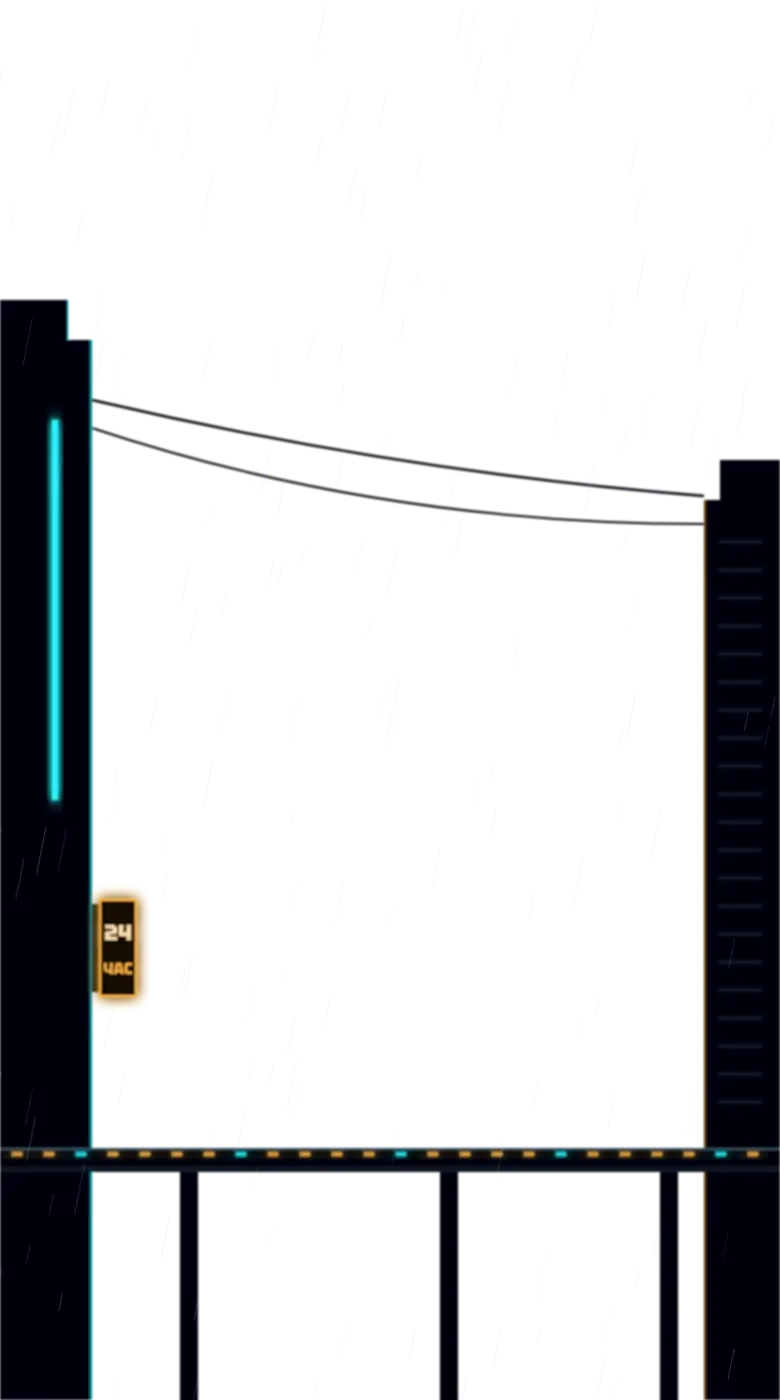
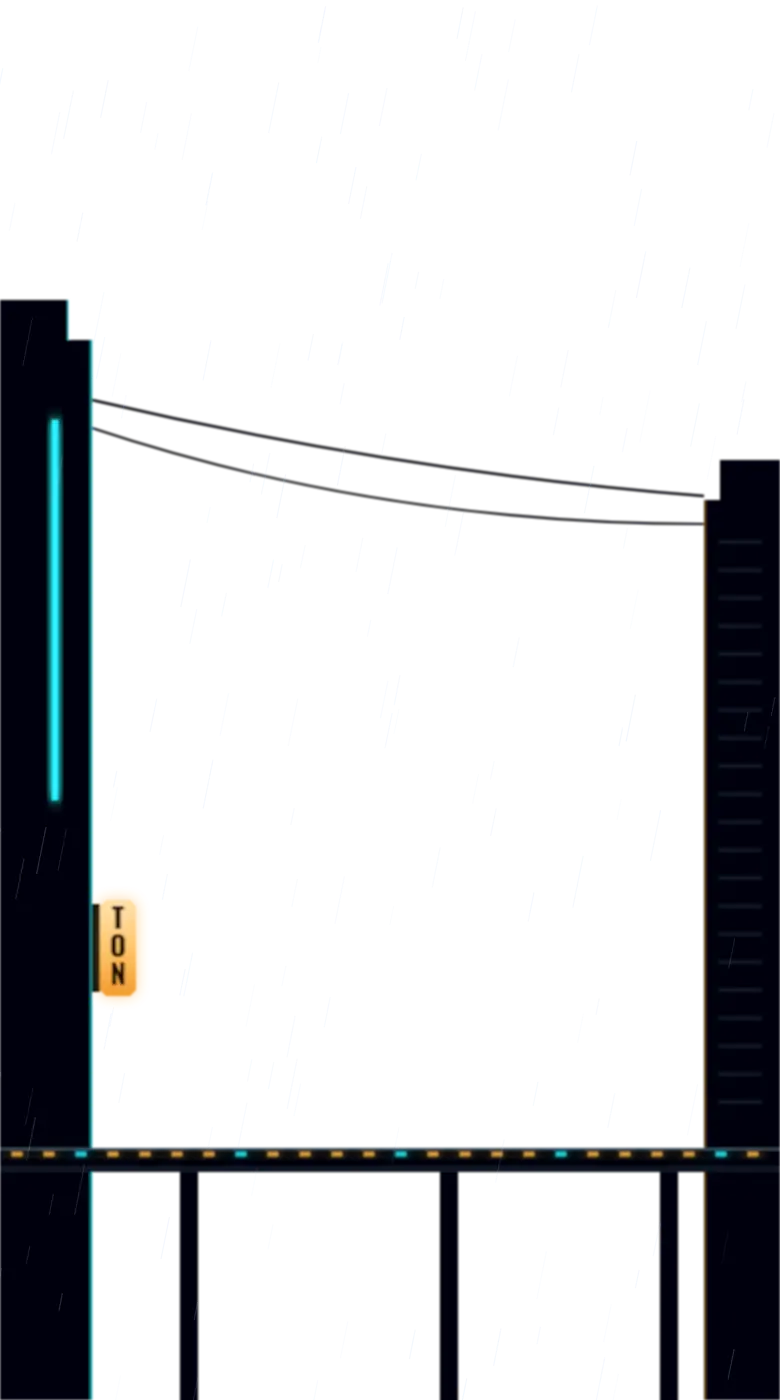
design(city): вывески — неоновые трубки «НЕКСУС»/«ОБМЕН», янтарные лайтбоксы «TON 24/7»/«МАЙНИНГ», «TON» вместо «24 ЧАС»

Changed region(s): [[0.0923, 0.6143, 0.1846, 0.7371]]

diff --git a/frontend/src/components/CityBackdrop.tsx b/frontend/src/components/CityBackdrop.tsx
@@ -21,7 +21,7 @@ const WINDOWS: [number, number][] = [
 ];
 // вывески: моргает одна за раз (сдвинутые циклы 11/14/17 с)
 const SIGNS: [number, number, number, number][] = [
-  [48, 284, 26, 154], [181, 235, 42, 28], [264, 467, 74, 20],
+  [48, 284, 26, 154], [181, 235, 42, 28], [265, 465, 74, 23],
 ];
 // искры над рельсом и вывеской «МАЙНИНГ»
 const SPARKS: [number, number, string, number][] = [
